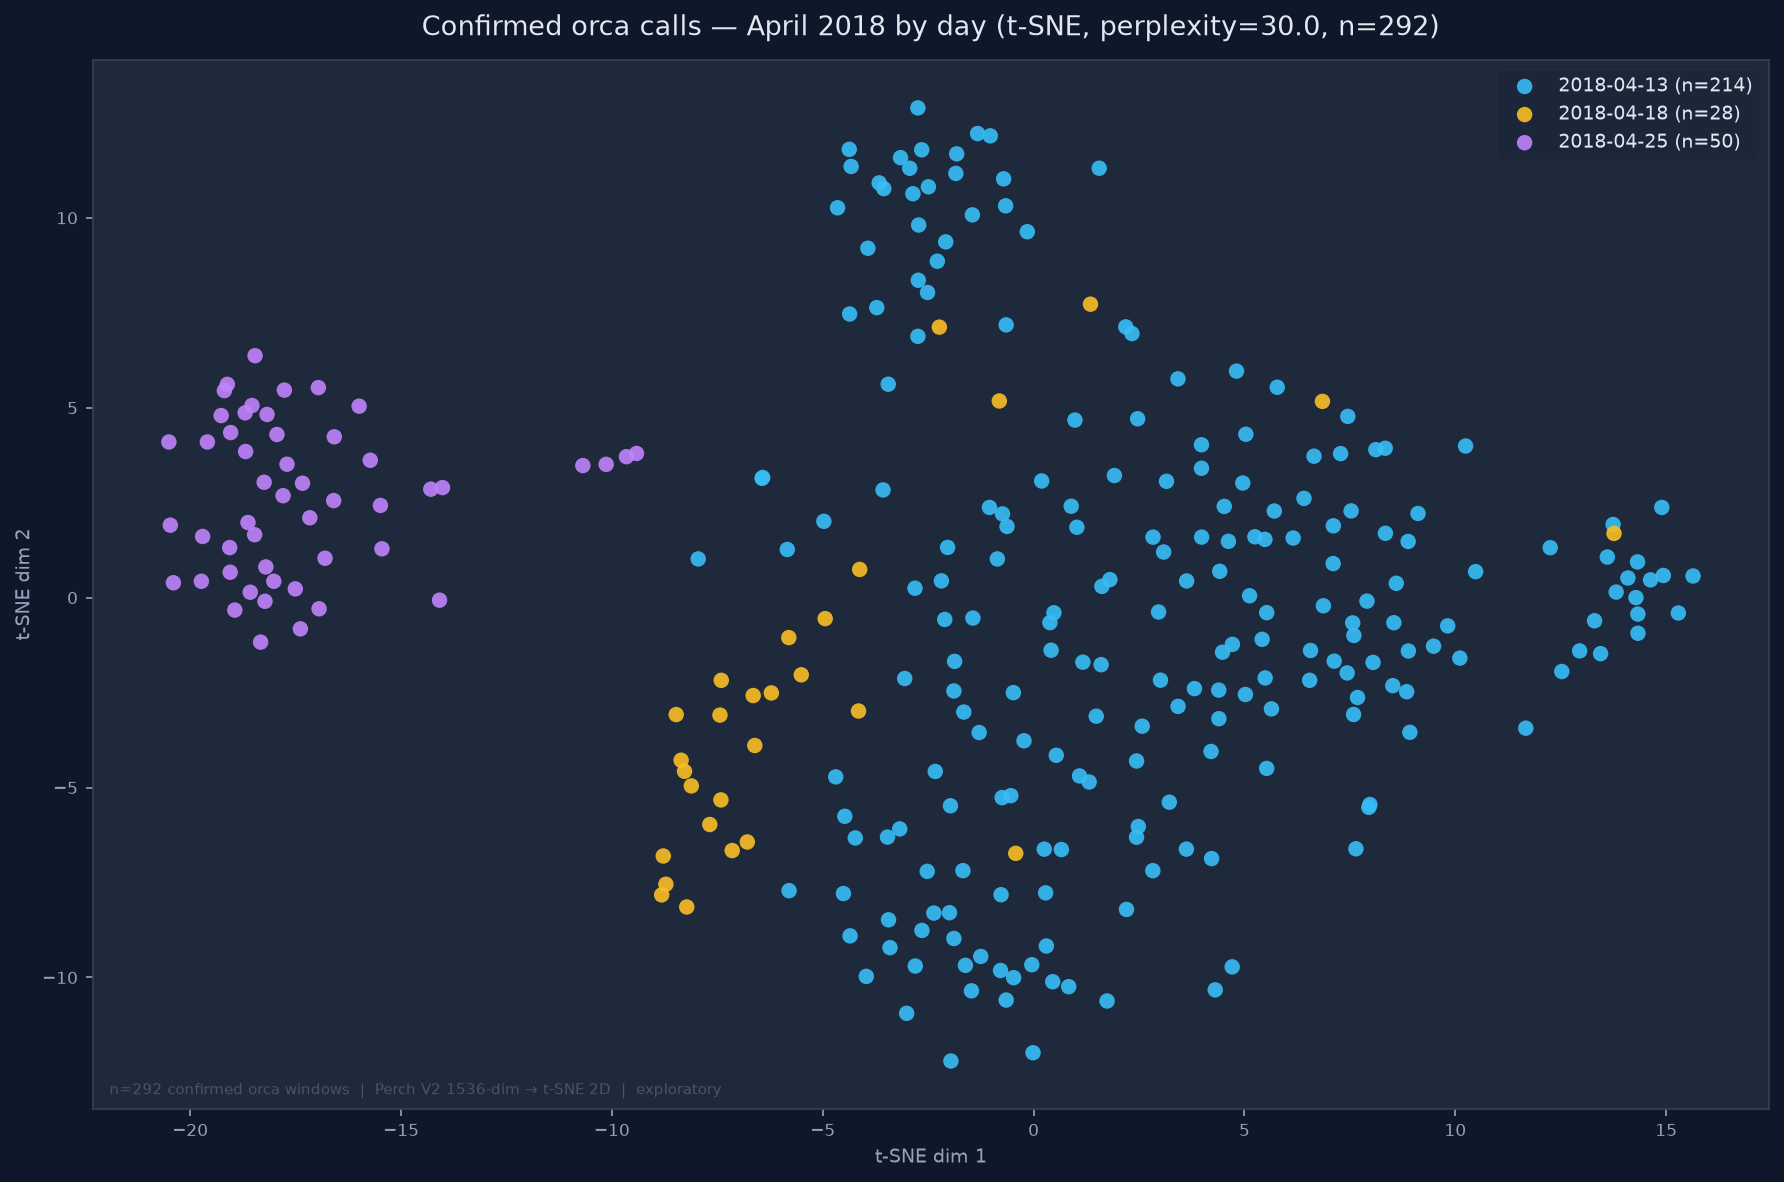
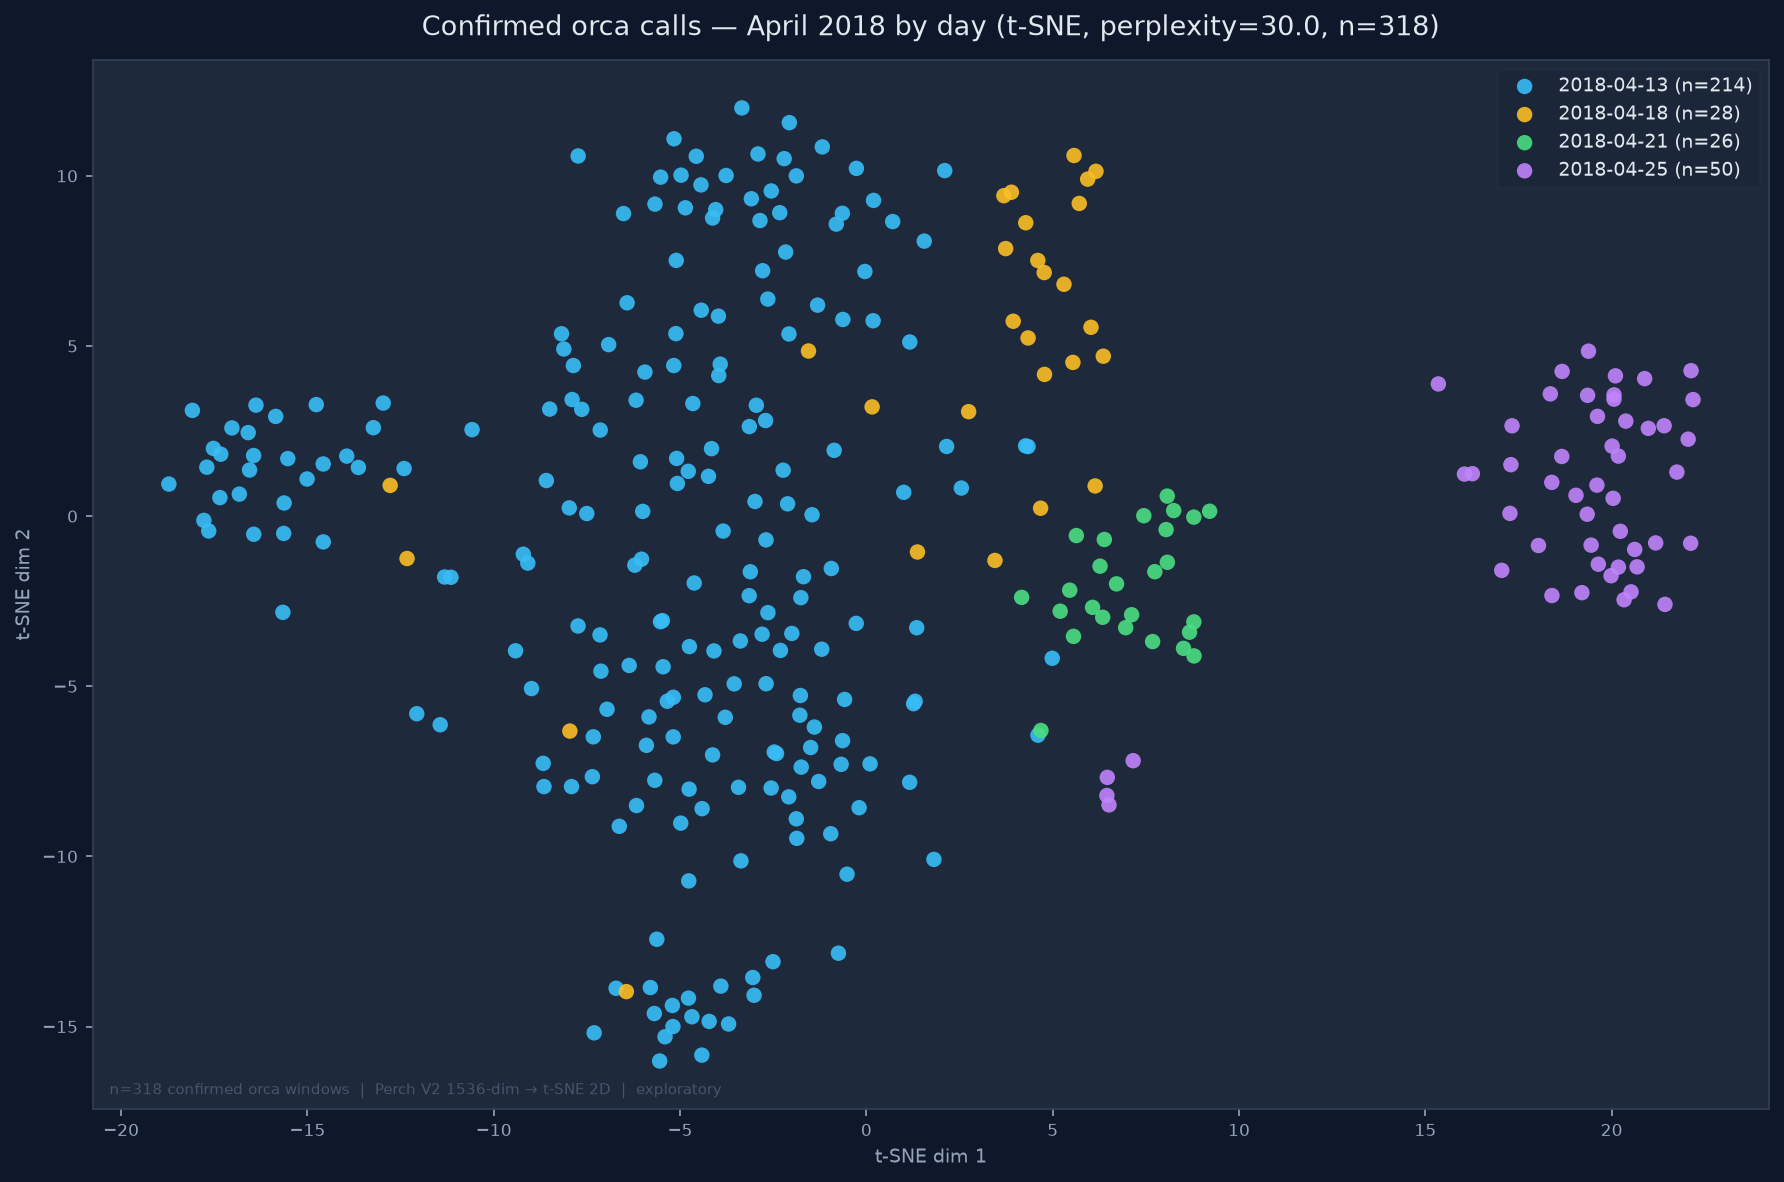
Add April 21 to by-day orca t-SNE (5 confirmed days); keep 4days file for history; add figures/README.md clarifying versioned filenames

diff --git a/tools/plot_tsne_orca_by_day.py b/tools/plot_tsne_orca_by_day.py
@@ -5,7 +5,7 @@ plot_tsne_orca_by_day.py — t-SNE of CONFIRMED orca_call embeddings, colored by
 Purpose: explore Duane's ear-observation that orca calls sound different across the
 confirmed April 2018 days (Apr 13 / 18 / 25) and May 12 2018. Produces two plots:
   1. April-only  (Apr 13, 18, 25)          — one month, cleaner acoustic environment
-  2. All four days (adds May 12 2018)       — May shown with a different marker shape
+  2. All confirmed days (adds May 12 2018)   — May shown with a different marker shape
 
 READ THIS BEFORE INTERPRETING (t-SNE caveats):
   - t-SNE is EXPLORATORY, not a test. Distances between clusters and cluster sizes are
@@ -47,11 +47,12 @@ from datetime import date
 
 import numpy as np
 
-APRIL_DAYS = [date(2018, 4, 13), date(2018, 4, 18), date(2018, 4, 25)]
+APRIL_DAYS = [date(2018, 4, 13), date(2018, 4, 18), date(2018, 4, 21), date(2018, 4, 25)]
 MAY_DAYS = [date(2018, 5, 12)]
 DAY_COLORS = {
     date(2018, 4, 13): "#1b9e77",   # confirmed Bigg's event
     date(2018, 4, 18): "#d95f02",   # confirmed bout
+    date(2018, 4, 21): "#66a61e",   # confirmed (Aug 21 2026 resolution of the "pending" flag)
     date(2018, 4, 25): "#7570b3",   # confirmed cluster
     date(2018, 5, 12): "#e7298a",   # confirmed May event
 }
@@ -61,6 +62,7 @@ DAY_COLORS = {
 PRES_DAY_COLORS = {
     date(2018, 4, 13): "#38bdf8",   # sky
     date(2018, 4, 18): "#fbbf24",   # amber
+    date(2018, 4, 21): "#4ade80",   # green (Aug 21 2026 addition)
     date(2018, 4, 25): "#c084fc",   # bright purple
     date(2018, 5, 12): "#fb7185",   # rose
 }
@@ -222,13 +224,14 @@ def make_plots(april_emb, april_days, april_wids,
                      style=style)
     written.append(p1)
 
-    # Plot 2 — all four days (April + May 12); May as triangle
+    # Plot 2 — all confirmed days (April + May 12); May as triangle
     all_emb = np.concatenate([april_emb, may_emb], axis=0)
     all_days = np.concatenate([april_days, may_days])
+    n_days = len(set(all_days.tolist()))
     coords_all, px_all = run_tsne(all_emb, perplexity, seed)
     p2 = plot_by_day(coords_all, all_days,
-                     f"Confirmed orca calls — 4 days Apr+May 2018 (t-SNE, perplexity={px_all}, n={len(all_days)})",
-                     os.path.join(out_dir, f"tsne_orca_by_day_4days_{px_tag}{sfx}.png"),
+                     f"Confirmed orca calls — {n_days} days Apr+May 2018 (t-SNE, perplexity={px_all}, n={len(all_days)})",
+                     os.path.join(out_dir, f"tsne_orca_by_day_{n_days}days_{px_tag}{sfx}.png"),
                      month_marker=True, style=style)
     written.append(p2)
     return written
@@ -247,12 +250,12 @@ def selftest():
         base = base / np.linalg.norm(base) * center_seed
         return base + rng.normal(0, spread, (n, D)).astype(np.float32)
 
-    # three April "days" with modest separation, plus a more distinct May day
-    a13 = cluster(6.0, 60); a18 = cluster(6.2, 45); a25 = cluster(6.4, 50)
+    # four April "days" with modest separation, plus a more distinct May day
+    a13 = cluster(6.0, 60); a18 = cluster(6.2, 45); a21 = cluster(6.1, 55); a25 = cluster(6.4, 50)
     m12 = cluster(9.0, 40)
-    april_emb = np.concatenate([a13, a18, a25]).astype(np.float32)
+    april_emb = np.concatenate([a13, a18, a21, a25]).astype(np.float32)
     april_days = np.array([date(2018, 4, 13)] * 60 + [date(2018, 4, 18)] * 45
-                          + [date(2018, 4, 25)] * 50, dtype=object)
+                          + [date(2018, 4, 21)] * 55 + [date(2018, 4, 25)] * 50, dtype=object)
     april_wids = np.arange(len(april_days))
     may_emb = m12.astype(np.float32)
     may_days = np.array([date(2018, 5, 12)] * 40, dtype=object)

diff --git a/figures/README.md b/figures/README.md
@@ -1,0 +1,28 @@
+# figures/ — notes on versioned/superseded files
+
+This directory keeps full history rather than deleting superseded figures — consistent with
+this project's practice elsewhere (e.g. classifier versions v5-v8 are kept in the repo even
+though only v0-v4 are presented as results). When a figure is regenerated with corrected or
+updated data, the old file is usually left in place rather than removed, so provenance and
+project history stay intact.
+
+**This means some filenames look similar but represent different points in time.** Check the
+figure's own JSON sidecar (same basename + `.json`) for its caption, date, and notes before
+assuming which one is current.
+
+## By-day orca t-SNE (`tsne_orca_by_day_*`)
+
+- **`tsne_orca_by_day_4days_*.png`** — SUPERSEDED (as of Aug 21 2026). Covers the 3 April days
+  confirmed as of July 2026 (Apr 13, 18, 25) + May 12 — 4 confirmed days total. Predates April
+  21's confirmation.
+- **`tsne_orca_by_day_5days_*.png`** — CURRENT. Covers 4 confirmed April days (13, 18, 21, 25)
+  + May 12 — 5 confirmed days total, reflecting the Aug 21 2026 resolution of the April 21
+  "pending review" flag (finding #14).
+- **`tsne_orca_by_day_april2018_*.png`** — April-only view. This filename is stable across
+  updates (no day-count in the name) — always check its sidecar's date/caption to know which
+  day-set it currently reflects, since the underlying image gets replaced in place when the
+  April day count changes.
+
+If you're looking for the figure that matches the poster's "eight days of orca" / current
+finding #14 state, use the highest day-count / most recent date in the sidecar, not
+necessarily the first match you find by filename.
